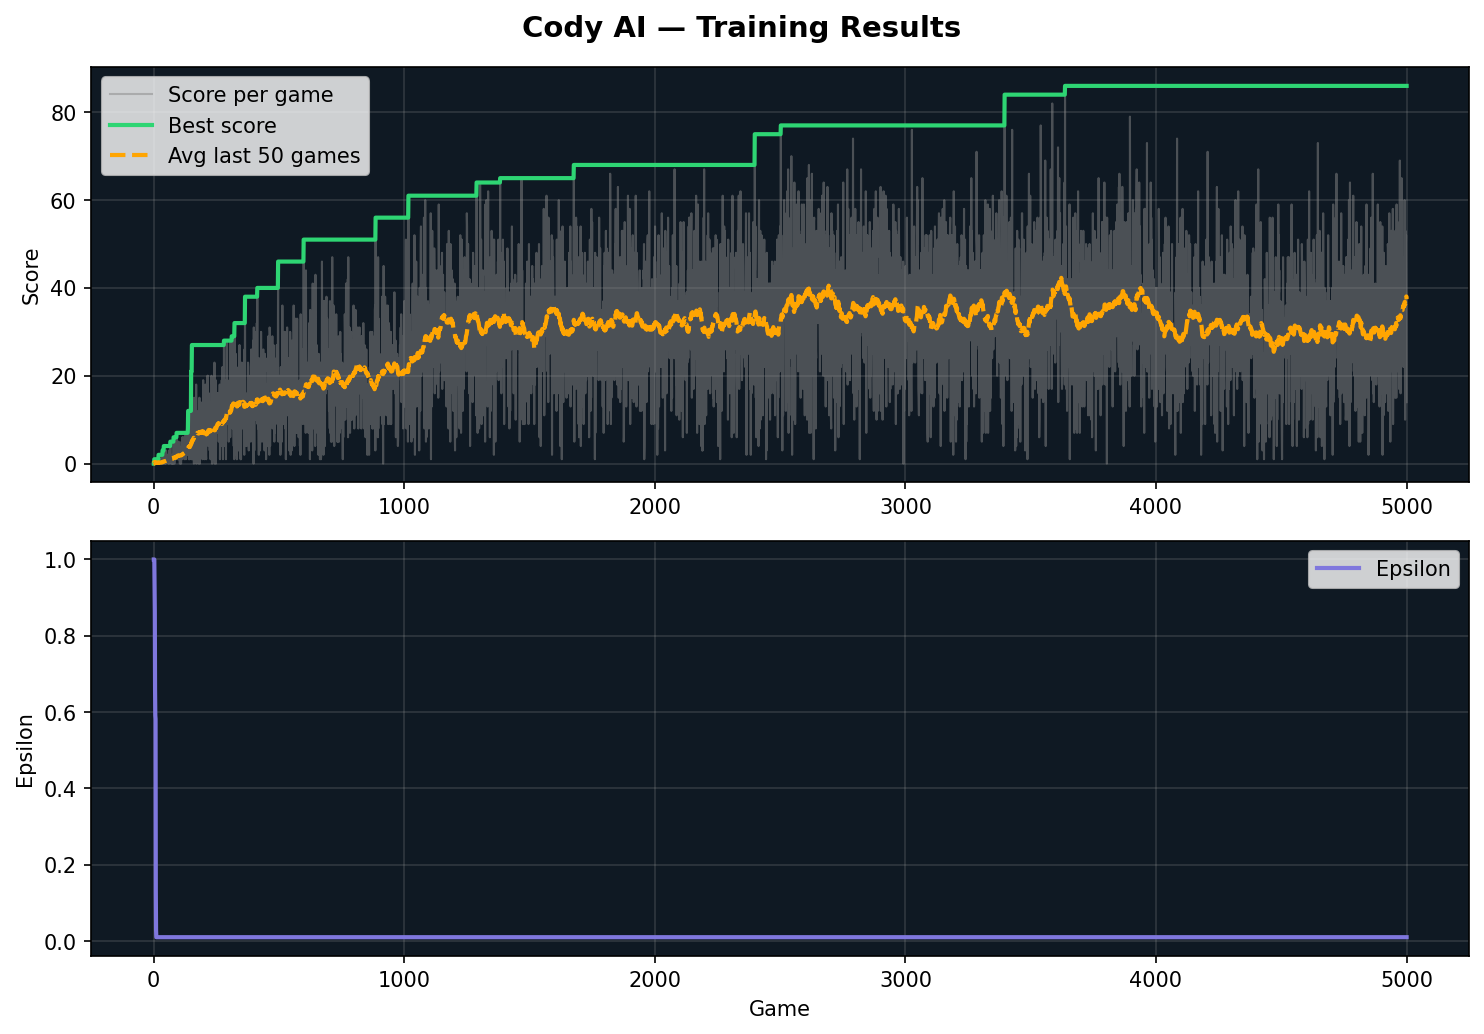
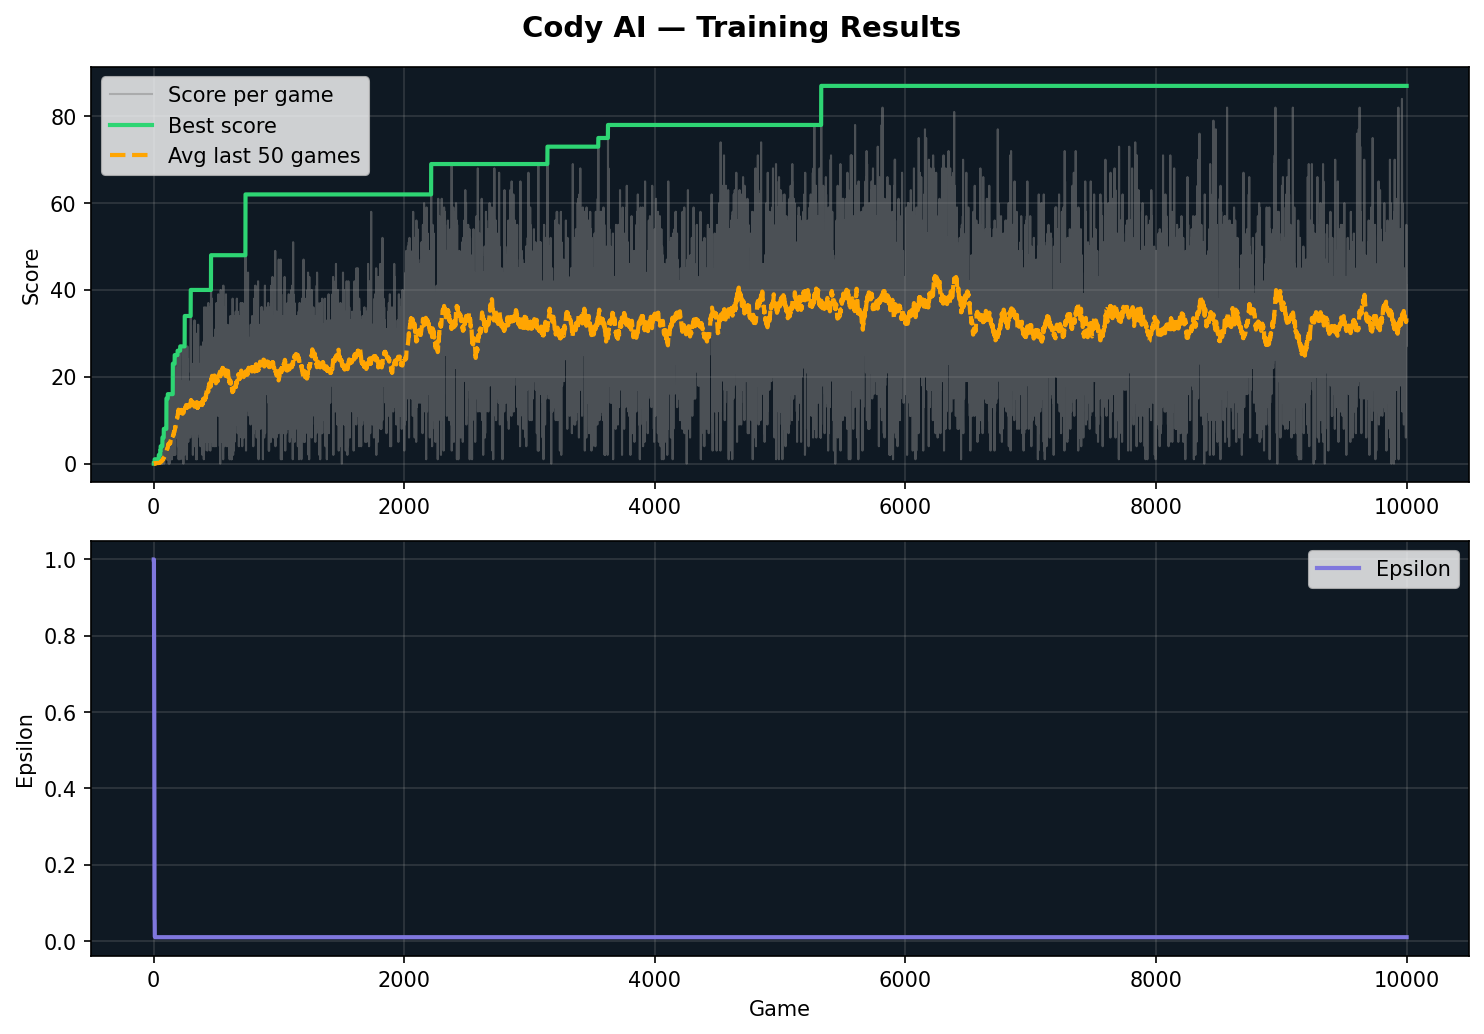
made some modifications by increasing the number of neurons

diff --git a/src/train.py b/src/train.py
@@ -82,10 +82,10 @@ def train():
     print("  PROGRESSIVE CURRICULUM TRAINING")
     print("=" * 80)
     print("\nPhases:")
-    print("  1-1000:    Foundation (400x300)   - Learn basics")
-    print("  1001-2500: Scaling (640x480)      - Apply skills")  
-    print("  2501-4000: Mastery (800x600)      - Handle complexity")
-    print("  4001+:     Generalization (mixed) - Adapt to anything")
+    print("  1-2000:    Foundation (400x300)   - Learn basics")
+    print("  2001-4500: Scaling (640x480)      - Apply skills")  
+    print("  4501-6500: Mastery (800x600)      - Handle complexity")
+    print("  6501+:     Generalization (mixed) - Adapt to anything")
     print("\n" + "=" * 80)
     print(f"\n{'Game':<8} {'Phase':<16} {'Grid':<12} {'Score':<8} {'Best':<8} {'Avg(50)':<10} {'ε':<8}")
     print("-" * 80)

diff --git a/src/nn.py b/src/nn.py
@@ -75,7 +75,7 @@ class NeuralNetwork:
         return np.argmax(scores)
 
 if __name__ == "__main__":
-    net = NeuralNetwork(input_size=23, hidden_size=256, output_size=3)
+    net = NeuralNetwork(input_size=23, hidden_size=512, output_size=3)
 
     # Let's teach it one simple rule:
     # Given this state → action 1 (go straight) should score highest
